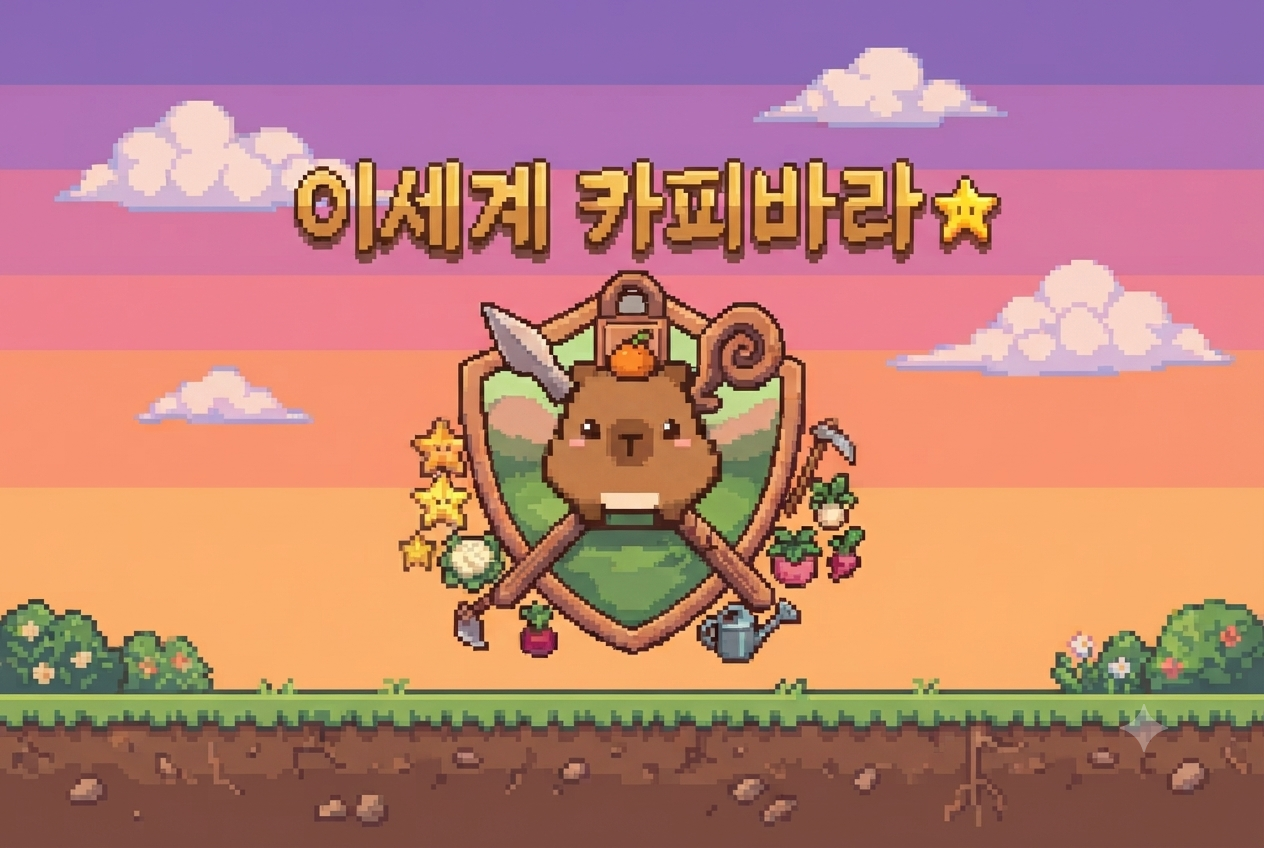
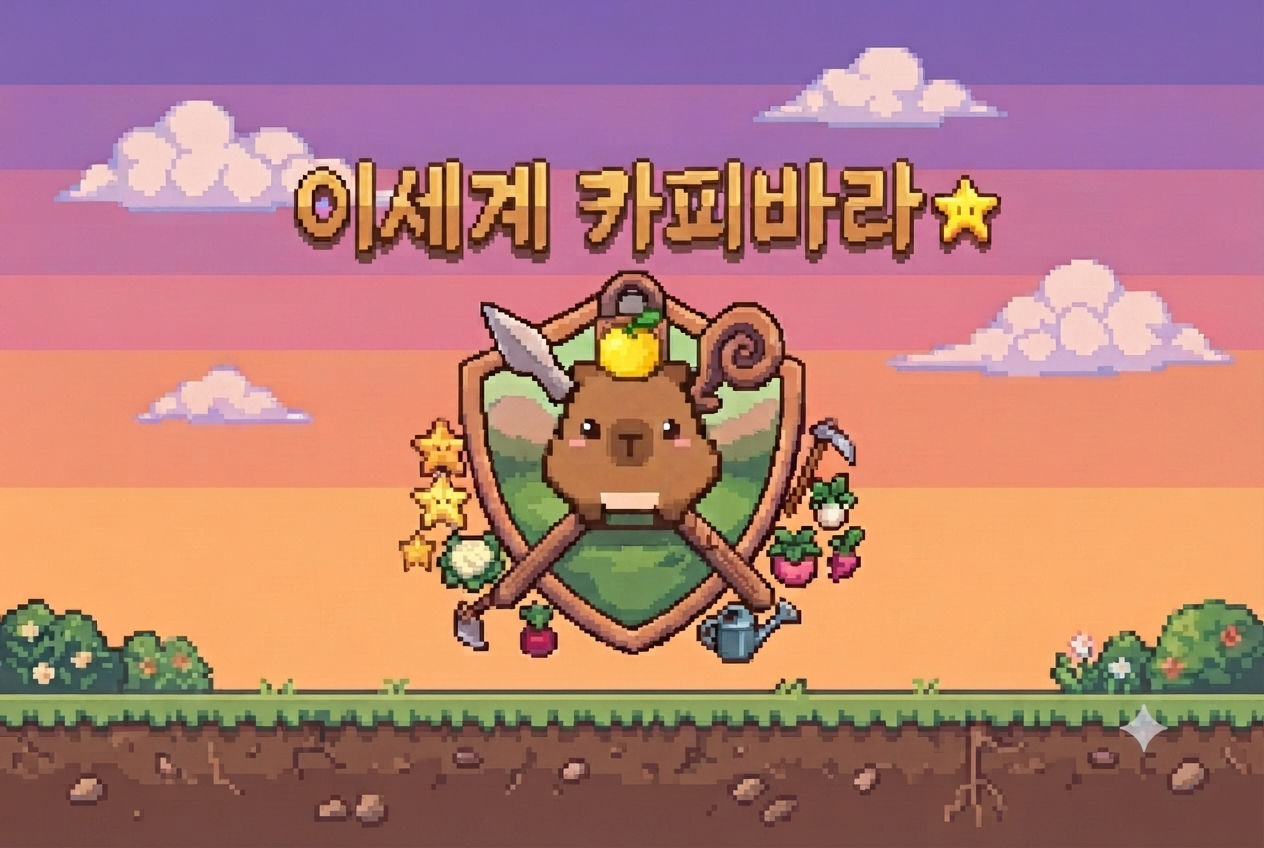
feat: 타이틀 화면 배경을 v2 이미지로 교체
사용자가 Gemini로 새로 생성한 타이틀 일러스트로 갈아끼웠다. 원본이 v1과 같은
1264×848이라 기존 변환 경로(3:2 중앙 크롭 → 480×320 → 화면에서 정수 2배)를
그대로 쓴다. 코드는 한 줄도 바뀌지 않았다 — art-source의 소스만 교체하고
npm run import:art 를 돌린 결과다.

- art-source/ai_title_src.png 를 새 그림으로 교체
- v1 원본은 삭제하지 않고 ai_title_src_v1_superseded.png 로 보존.
  현재 배포본 이전 화면의 출처를 추적할 수 있어야 한다(하네스 10)
- 재생성 결과 public/assets/ 중 title_screen.png 한 장만 변경됐다.
  나머지 6개 시트는 바이트 동일 — 파이프라인이 결정적이라는 확인도 같이 됐다
- ASSET_CREDITS.md 갱신 (교체 일자·보존 파일명·결정성 기록)

브라우저에서 실제로 열어 새 타이틀이 뜨는 것을 확인했다.

diff --git a/docs/ASSET_CREDITS.md b/docs/ASSET_CREDITS.md
@@ -63,7 +63,7 @@
 |---|---|---|---|
 | `public/assets/logo_title.png` | **저장소 소유자가 Google Gemini로 직접 생성** (2026-08-07) | 생성자 본인 소유 | **있음** — 알파 채널만 수정, 아래 참조 |
 | `tile_floor` · `tile_wall` · `props` · `goblin_walk` · `goblin_idle` · `capy_body_01~04` · `capy_hat_01~03` · `capy_outfit_01~04` | **저장소 소유자가 Google Gemini("나노바나나")로 직접 생성** (2026-08-08) | 생성자 본인 소유. 제3자 저작물 아님 | **있음** — `scripts/import-ai-art.mjs`가 32×32 규격으로 변환. 아래 참조 |
-| `title_screen` | **저장소 소유자가 Google Gemini로 직접 생성** (2026-08-08) | 생성자 본인 소유. 제3자 저작물 아님 | **있음** — 3:2로 중앙 크롭 후 480×320으로 축소(`scripts/import-ai-art.mjs`). 화면에서 정수 2배로 띄운다 |
+| `title_screen` | **저장소 소유자가 Google Gemini로 직접 생성** (2026-08-08 최초, **2026-08-09 v2로 교체**) | 생성자 본인 소유. 제3자 저작물 아님 | **있음** — 3:2로 중앙 크롭 후 480×320으로 축소(`scripts/import-ai-art.mjs`). 화면에서 정수 2배로 띄운다 |
 | `capy_hat_04`(유자) · `capy_hat_05`(오렌지) | **우리 코드가 생성** — `scripts/import-ai-art.mjs`의 `makeFruitHat()`. AI 모자 시트에 없는 항목이라 직접 그렸다. 타이틀 로고의 카피바라가 머리에 얹은 과일과 같은 모티프 | 자체 제작 | — |
 | 그 외 `public/assets/*.png` (`marker_*`, `tile_bush`, `tile_spa`, `tile_shadow` 등) | **우리 코드가 생성** — `scripts/gen-sprites.mjs` | 자체 제작 | — |
 
@@ -100,6 +100,13 @@
   480×320으로 굽고 화면에서 정확히 2배로 띄운다. 240×160은 로고 글자당 17px로 빠듯해
   탈락시켰고(480은 34px), 비정수 배율은 세션 6에서 고친 한글 획 소실 결함을 되살린다.
   이 그림이 들어오면서 `logo_title.png`는 화면에서 쓰이지 않게 됐다(로드는 유지).
+- **타이틀 배경 v2 교체 (2026-08-09)**: 사용자가 Gemini로 새로 생성한 그림으로 갈아끼웠다.
+  원본 크기가 v1과 같은 **1264×848**이라 변환 경로·수치는 그대로 쓴다 — 코드는 한 줄도
+  바뀌지 않았고 `art-source/ai_title_src.png`만 교체한 뒤 `npm run import:art`를 돌렸다.
+  **v1 원본은 지우지 않고 `art-source/ai_title_src_v1_superseded.png`로 남겼다** —
+  현재 배포본 이전 화면이 어디서 왔는지 추적 가능해야 하기 때문이다.
+  재생성 결과 `public/assets/` 중 **`title_screen.png` 한 장만 바뀌었다**(나머지 6개 시트는
+  바이트 동일). 파이프라인이 결정적이라는 뜻이라 함께 기록한다.
 - **되돌림**: `scripts/gen-sprites.mjs`는 삭제하지 않았다. `npm run gen:sprites`로 기존 코드 생성본이
   그대로 복원된다(D14-e).
 - ⚠ **숲 벽만 예외**: AI가 낸 숲 행은 2·4열(벽이 세로로 이어지는 칸)을 벽이 아니라 흙바닥으로
